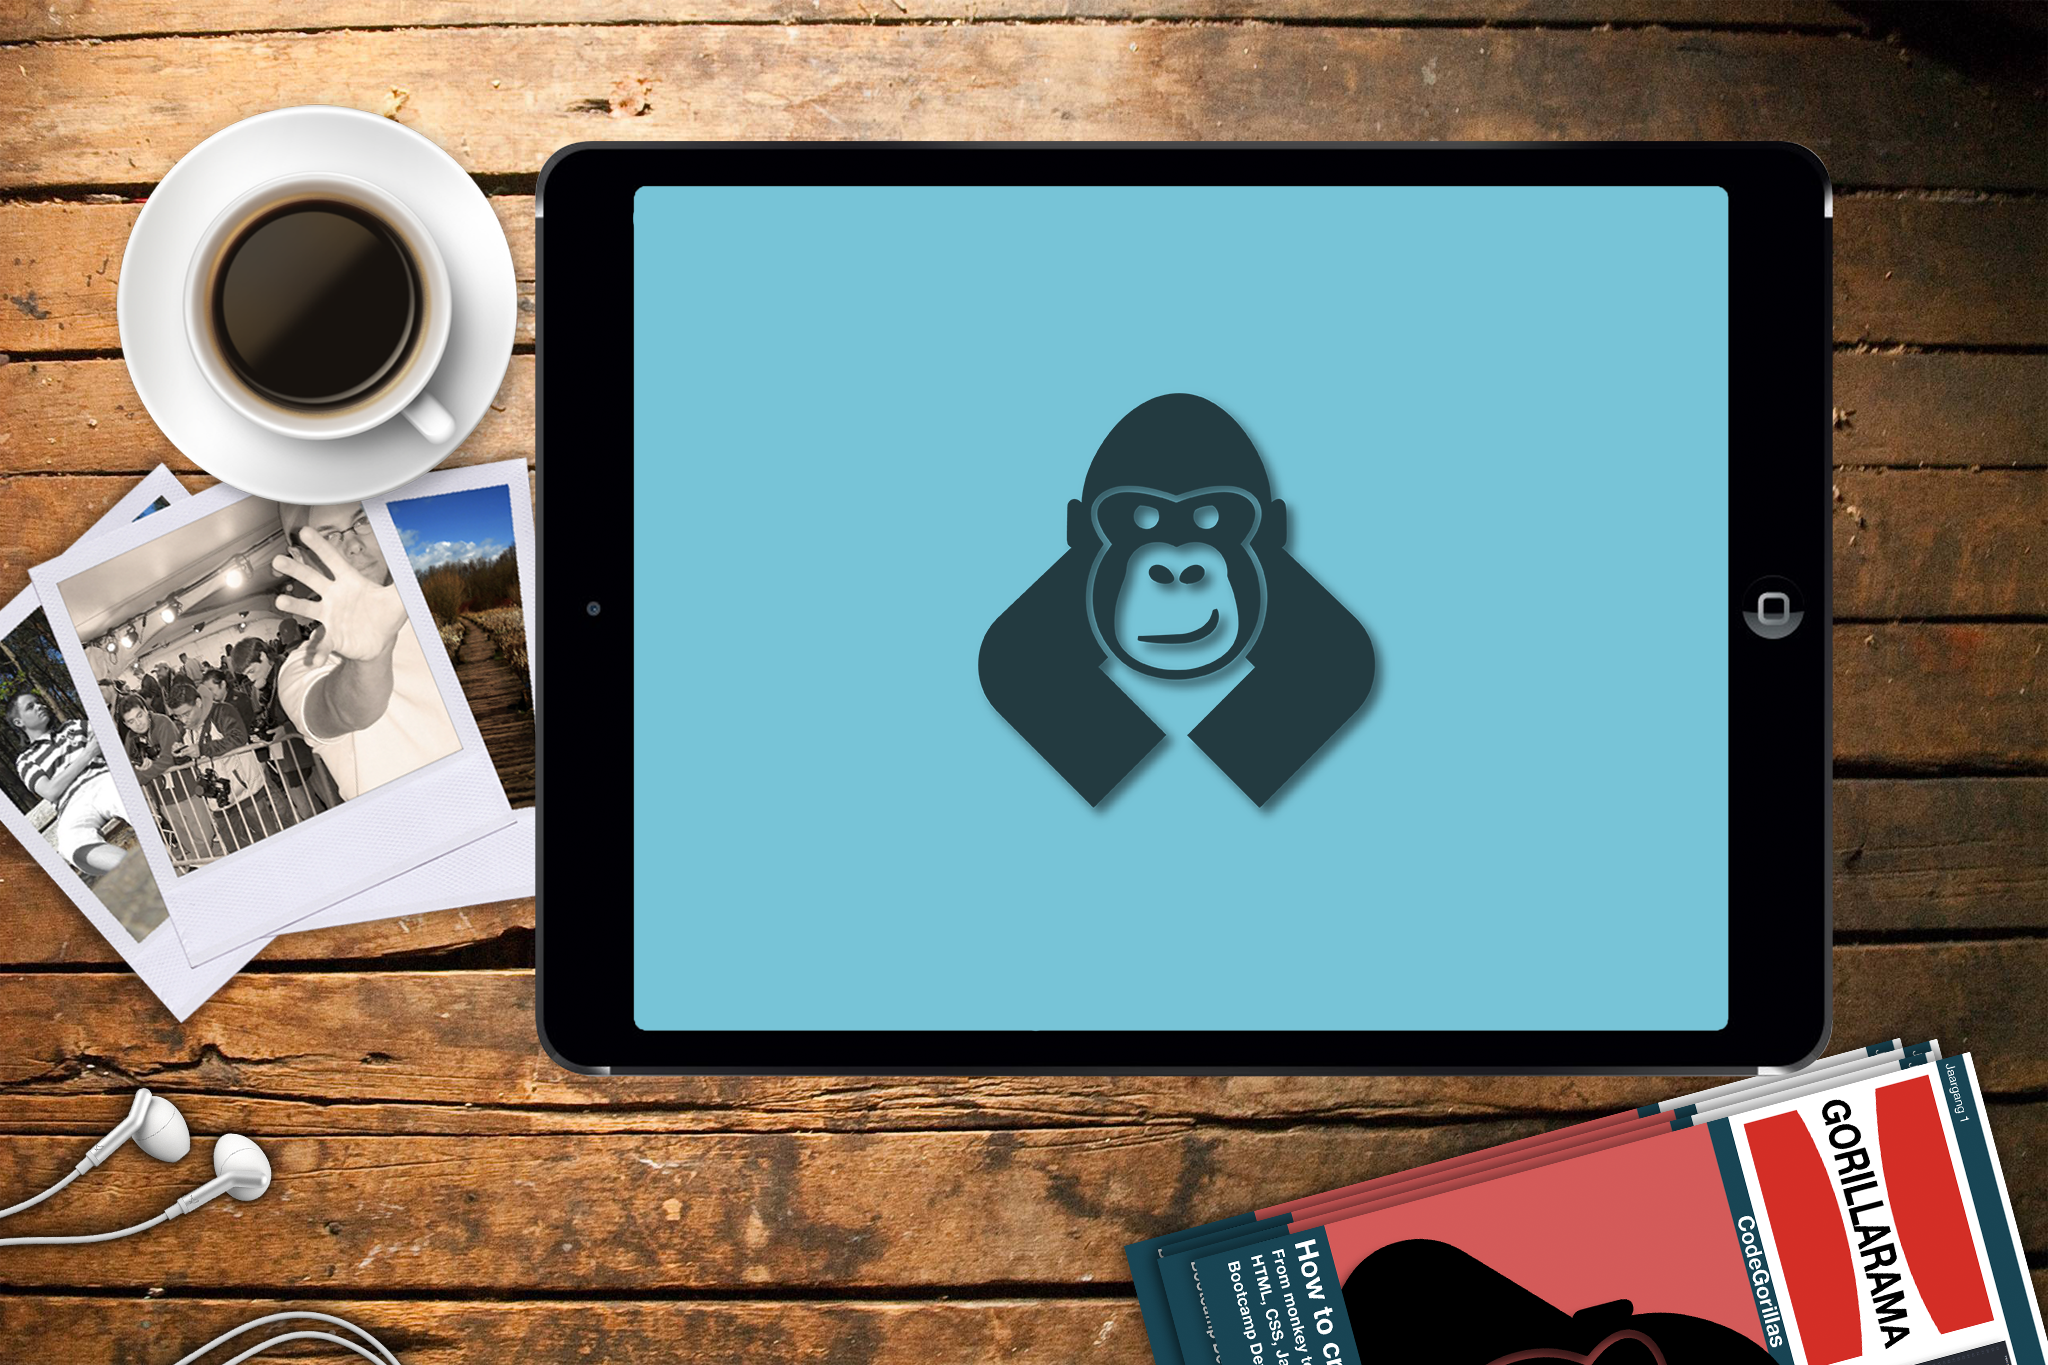
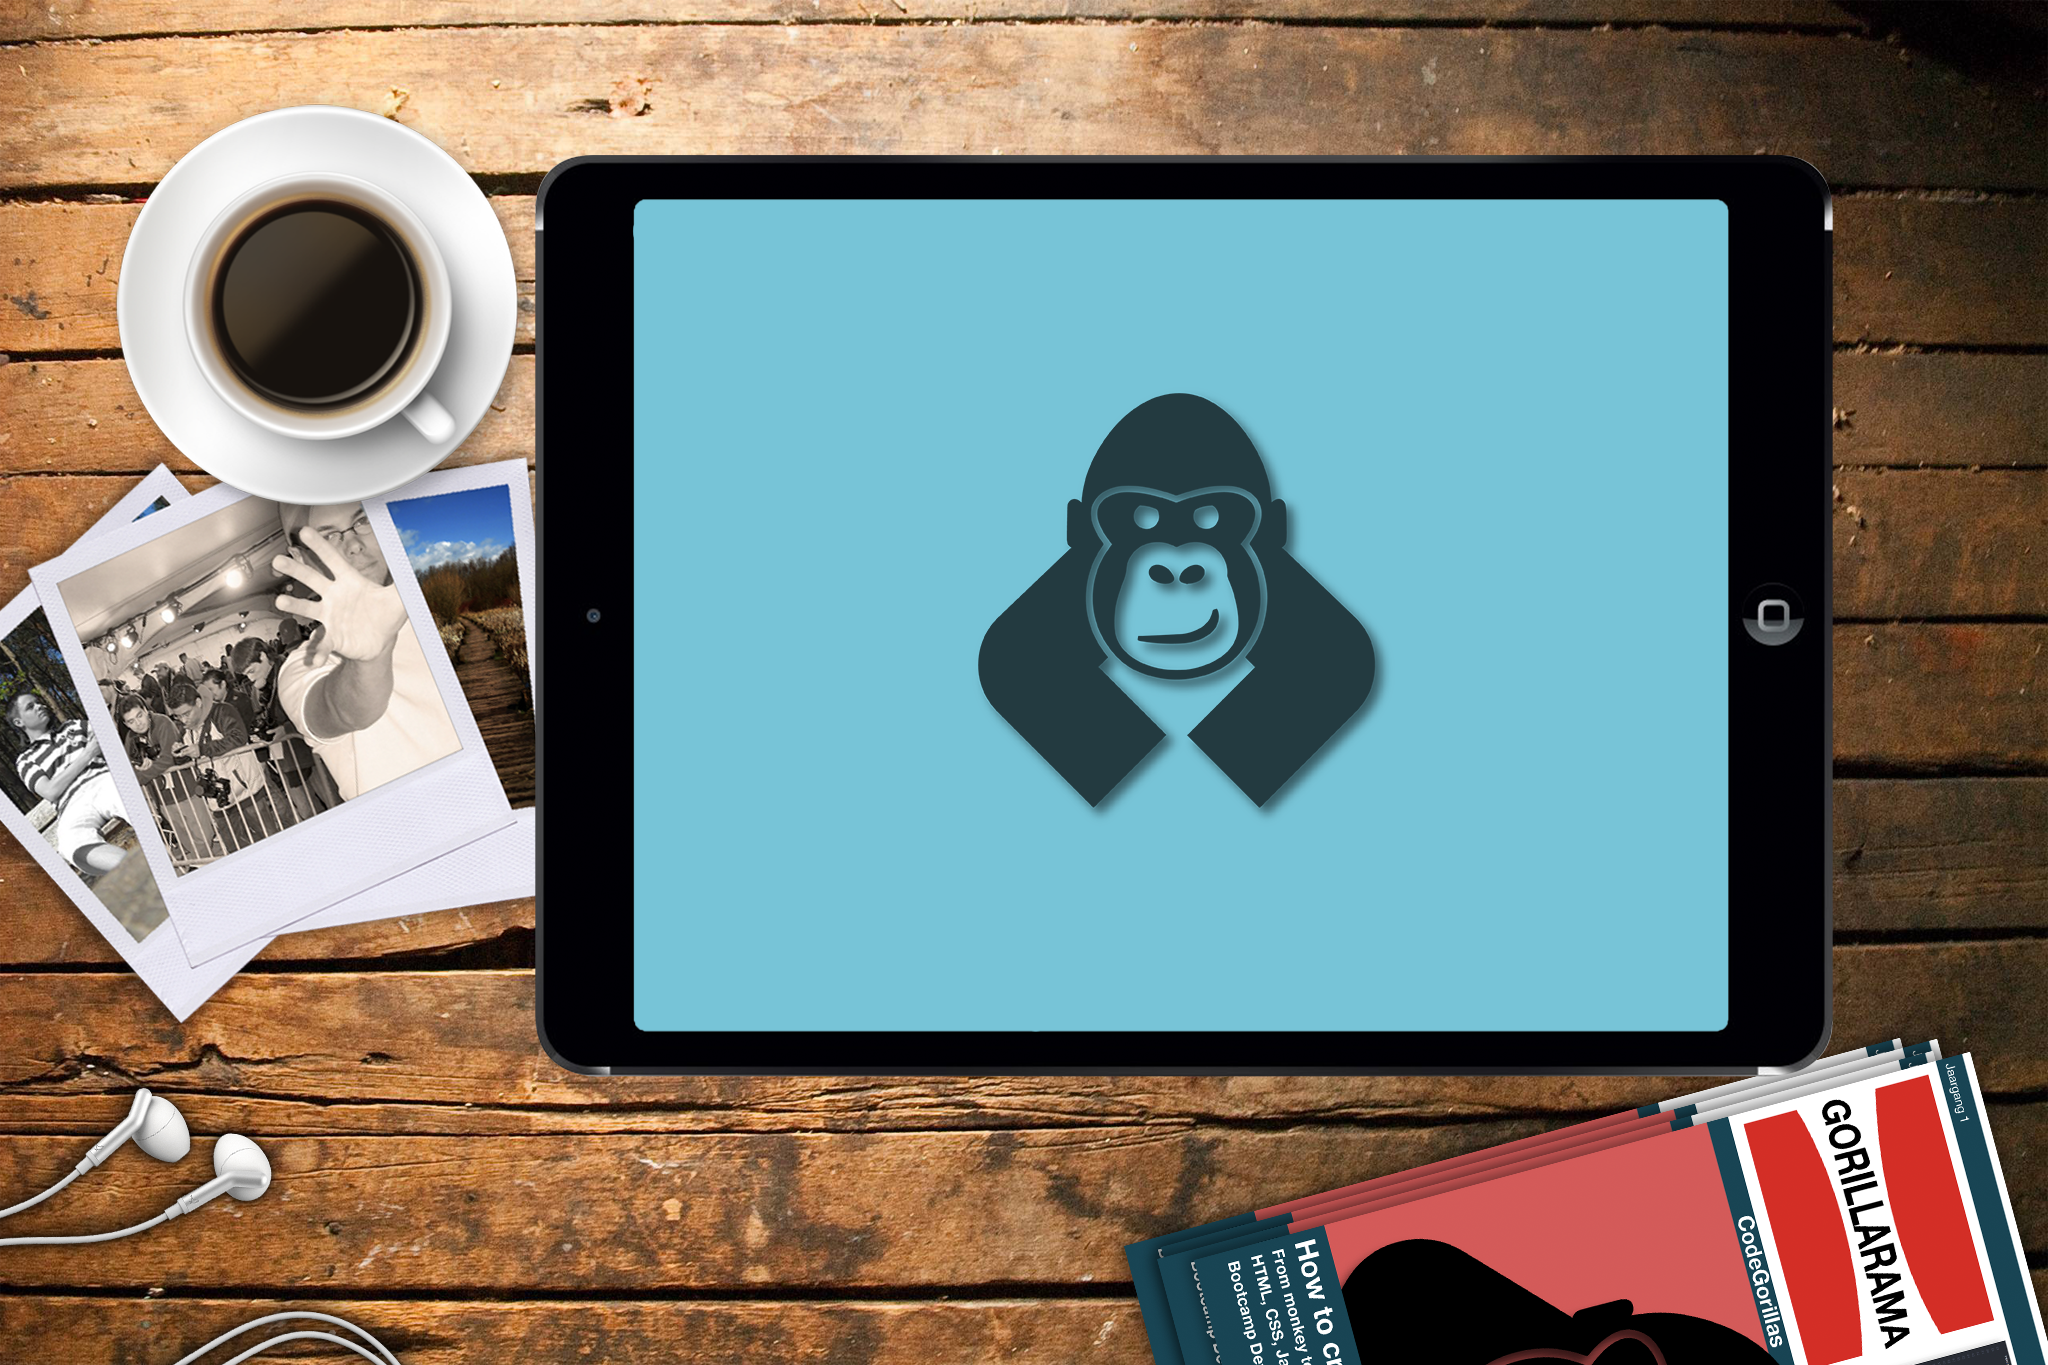
change tablet size

Changed region(s): [[0.25, 0.0923, 0.9062, 0.1538], [0.8438, 0.4308, 0.875, 0.4923]]

diff --git a/index.html b/index.html
@@ -70,15 +70,30 @@
                                     <div class="item-inner">
                                       <div class="item-title">Hard skills</div>
                                     </div>
-                                  </div></a></li>
-                                  <li><a href="left-page-3.html" class="item-link">
+                                  </div></a>
+                                  </li>
+                                  <li>
+                                    <a href="left-page-4.html" class="item-link">
                                         <div class="item-content">
                                             <div class="item-inner">
                                             <div class="item-title">Soft skills</div>
                                              </div>
-                                            </div></a></li>
+                                                 </div>
+                                                </a>
+                                                </li>
+                                                <li>
+                                                  <a href="left-page-5.html" class="item-link">
+                                                      <div class="item-content">
+                                                          <div class="item-inner">
+                                                          <div class="item-title">Blog</div>
+                                                           </div>
+                                                               </div>
+                                                              </a>
+                                                              </li>
                                             </ul>
                                           </div>
+
+
                       <!-- <div class="content-block-title">Control Main View</div>
                       <div class="list-block">
                         <ul>
@@ -128,7 +143,14 @@
                   <!-- Page, data-page contains page name-->
                   <div data-page="index-1" class="page">
                     <!-- Scrollable page content-->
-                    <div class="page-content"> Hellodennis
+                    <div class="page-content">
+                        <img src="assets/images/Infograf.png"> </img>
+                        <p>page-contentpage-contentpage-contentpage-contentpage-contentpage-content</p>
+                        <p>page-contentpage-contentpage-contentpage-contentpage-contentpage-content</p>
+                        <p>page-contentpage-contentpage-contentpage-contentpage-contentpage-content</p>
+                        <p>page-contentpage-contentpage-contentpage-contentpage-contentpage-content</p>
+
+
                       <!-- <div class="content-block-title">Welcome</div>
                       <div class="content-block">
                         <div class="content-block-inner ">

diff --git a/assets/css/main.css b/assets/css/main.css
@@ -23,6 +23,29 @@ body {
   height: 61.5%;
 }
 
+/*PAGECONTENT*/
+
+.page-content  {
+    overflow: scroll;
+    marging: 50px 50px 50px 50px;
+    text-align: center;
+
+}
+/*TOOLBAR*/
+.navbar {
+    height: 44px;
+    width: 100%;
+    box-sizing: border-box;
+    font-size: 17px;
+    position: relative;
+    margin: 0;
+    z-index: 500;
+    -webkit-backface-visibility: hidden;
+    backface-visibility: hidden;
+    -webkit-transform: translate3d(0,0,0);
+    transform: translate3d(0,0,0);
+}
+
 /* Your app custom files in this file */
 .view-left {
   border-right: 1px solid #b2b2b2;
@@ -34,6 +57,7 @@ body.with-panel-left-cover .panel.panel-left {
     transform: none;
 }
     .panel-left {
+        background-color: red;
         width: 0;
         transition: all .4s cubic-bezier(1, -0.34, 0, 1.18);
     }
@@ -49,6 +73,15 @@ body.with-panel-left-cover .panel.panel-left {
 .list-block .item-content {
     background-color: #E25054
 }
+
+*, ::after, ::before {
+    border-radius: 5px;
+    /*-webkit-box-sizing: inherit;*/
+    box-sizing: inherit;
+}
+
+
+
 .list-block .item-inner {
     color: #ffffff;
     background-color: #E25054;
